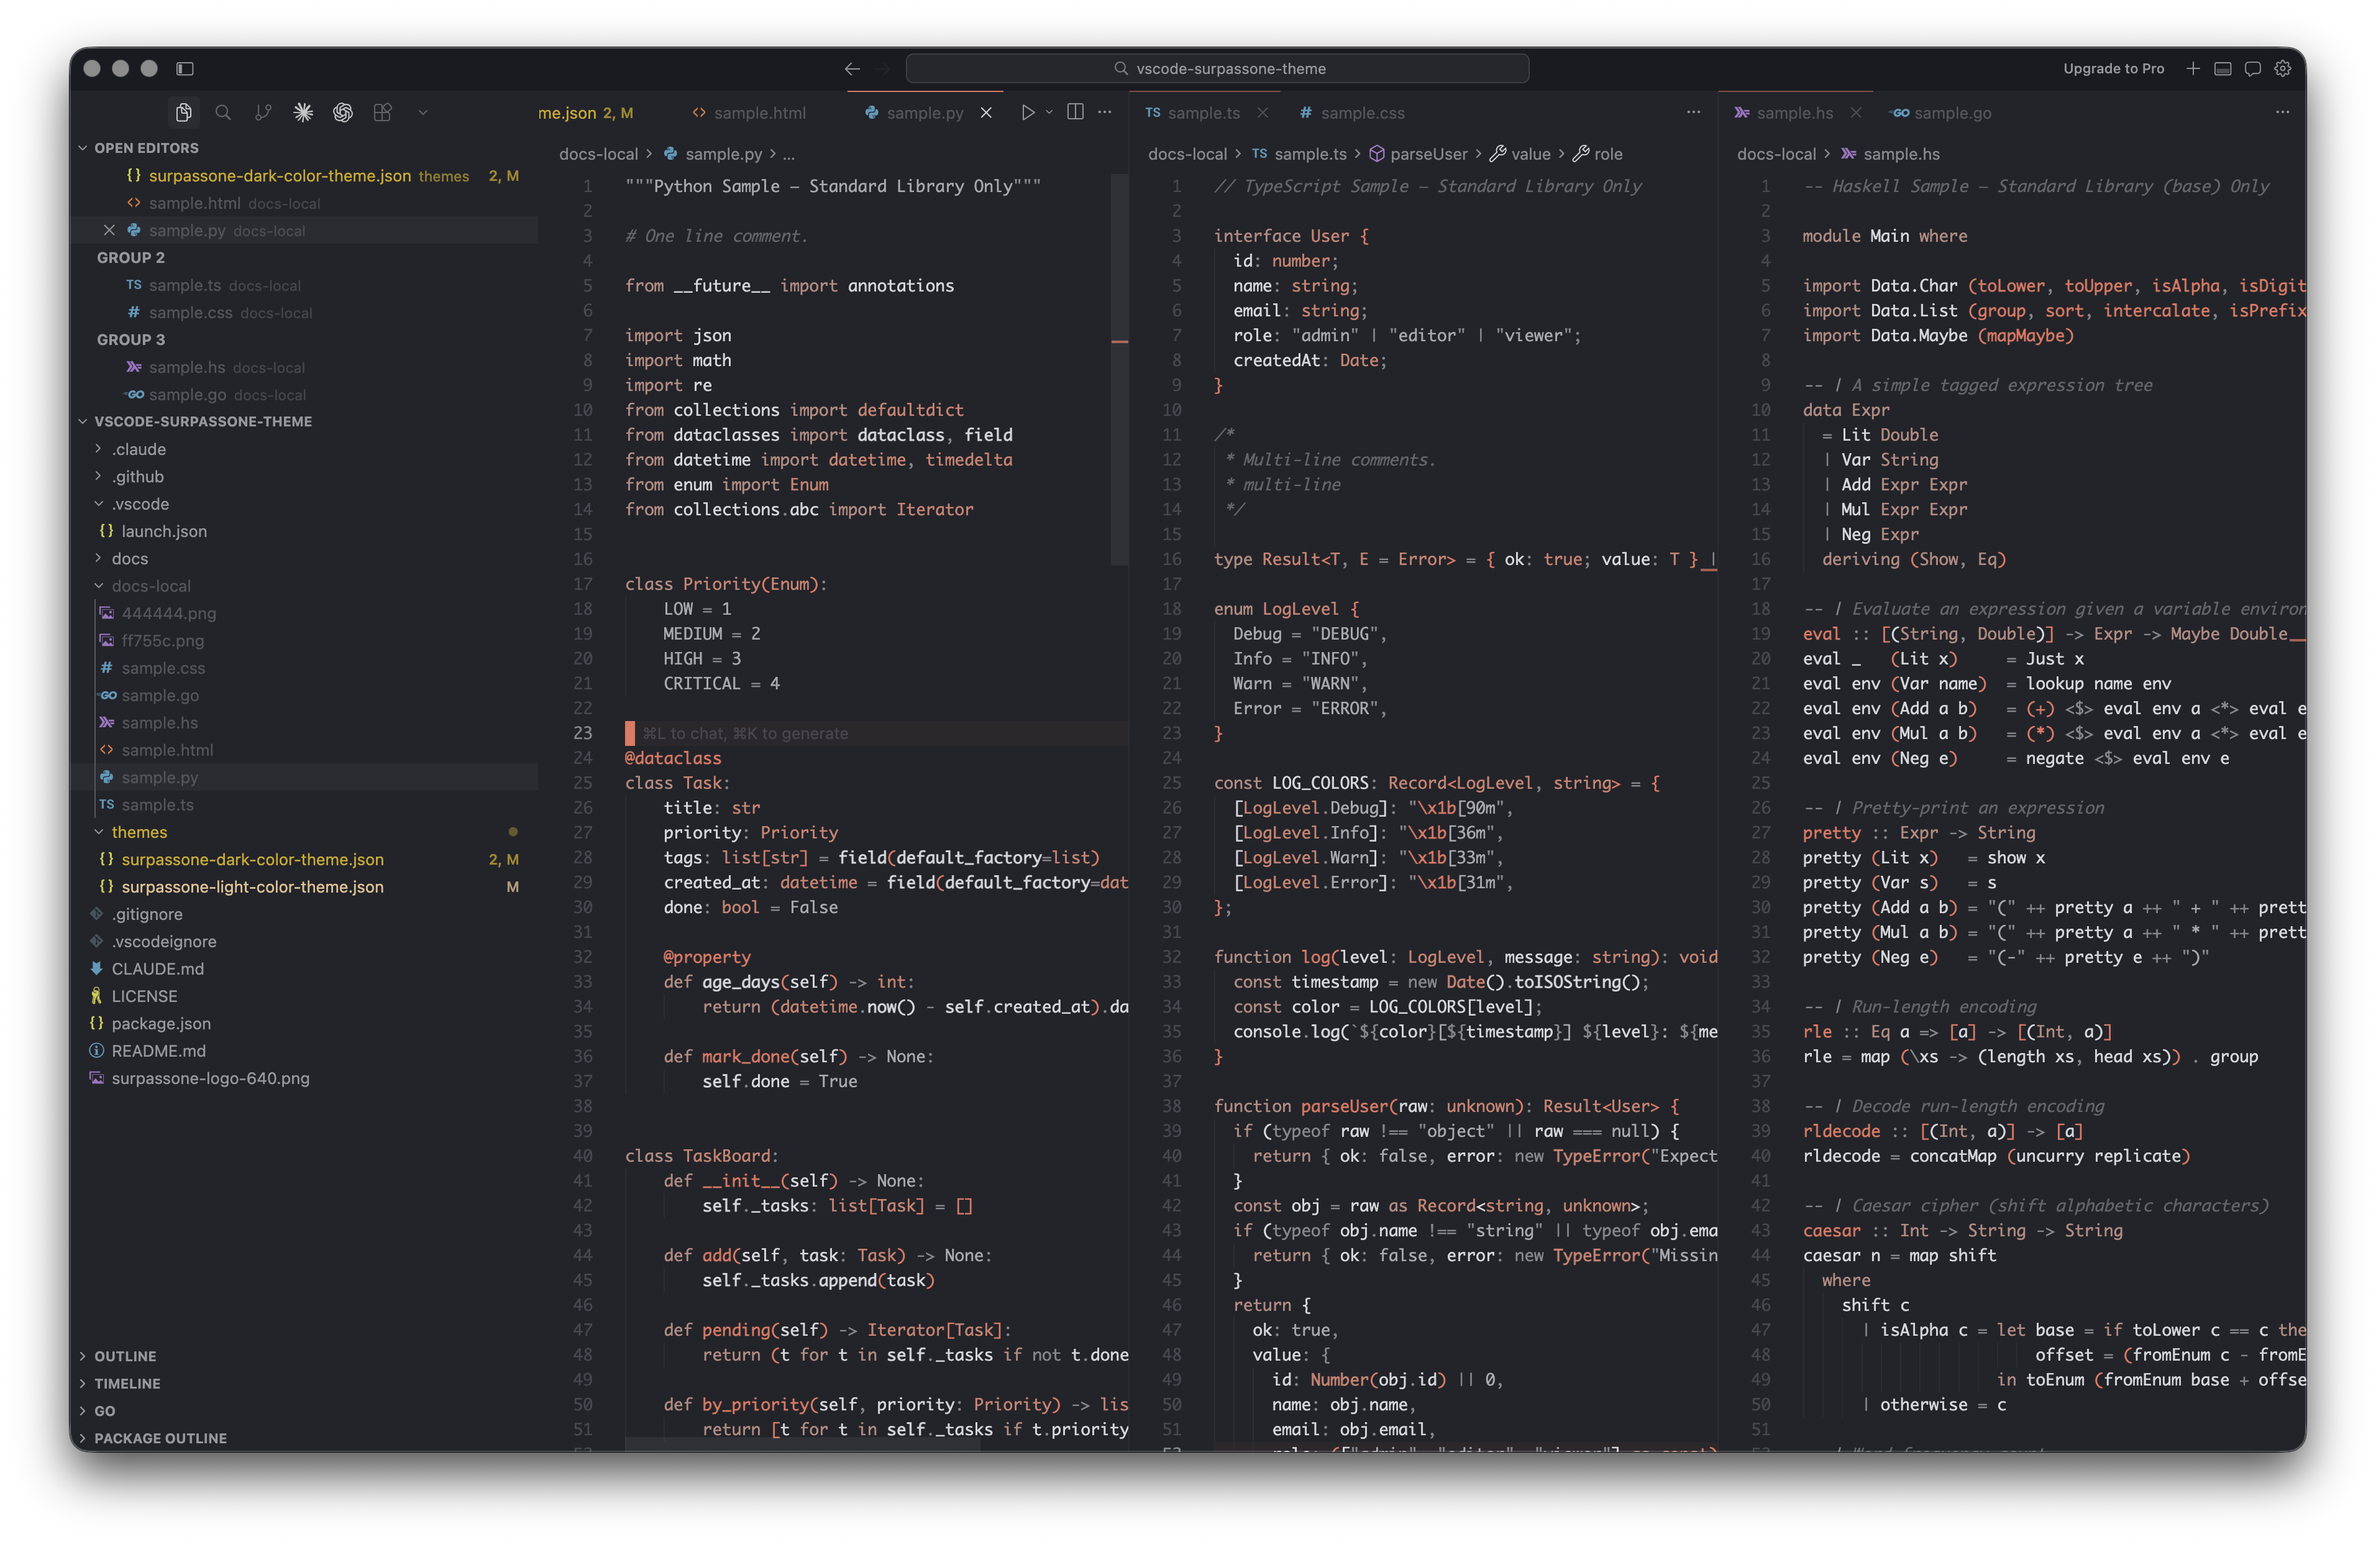
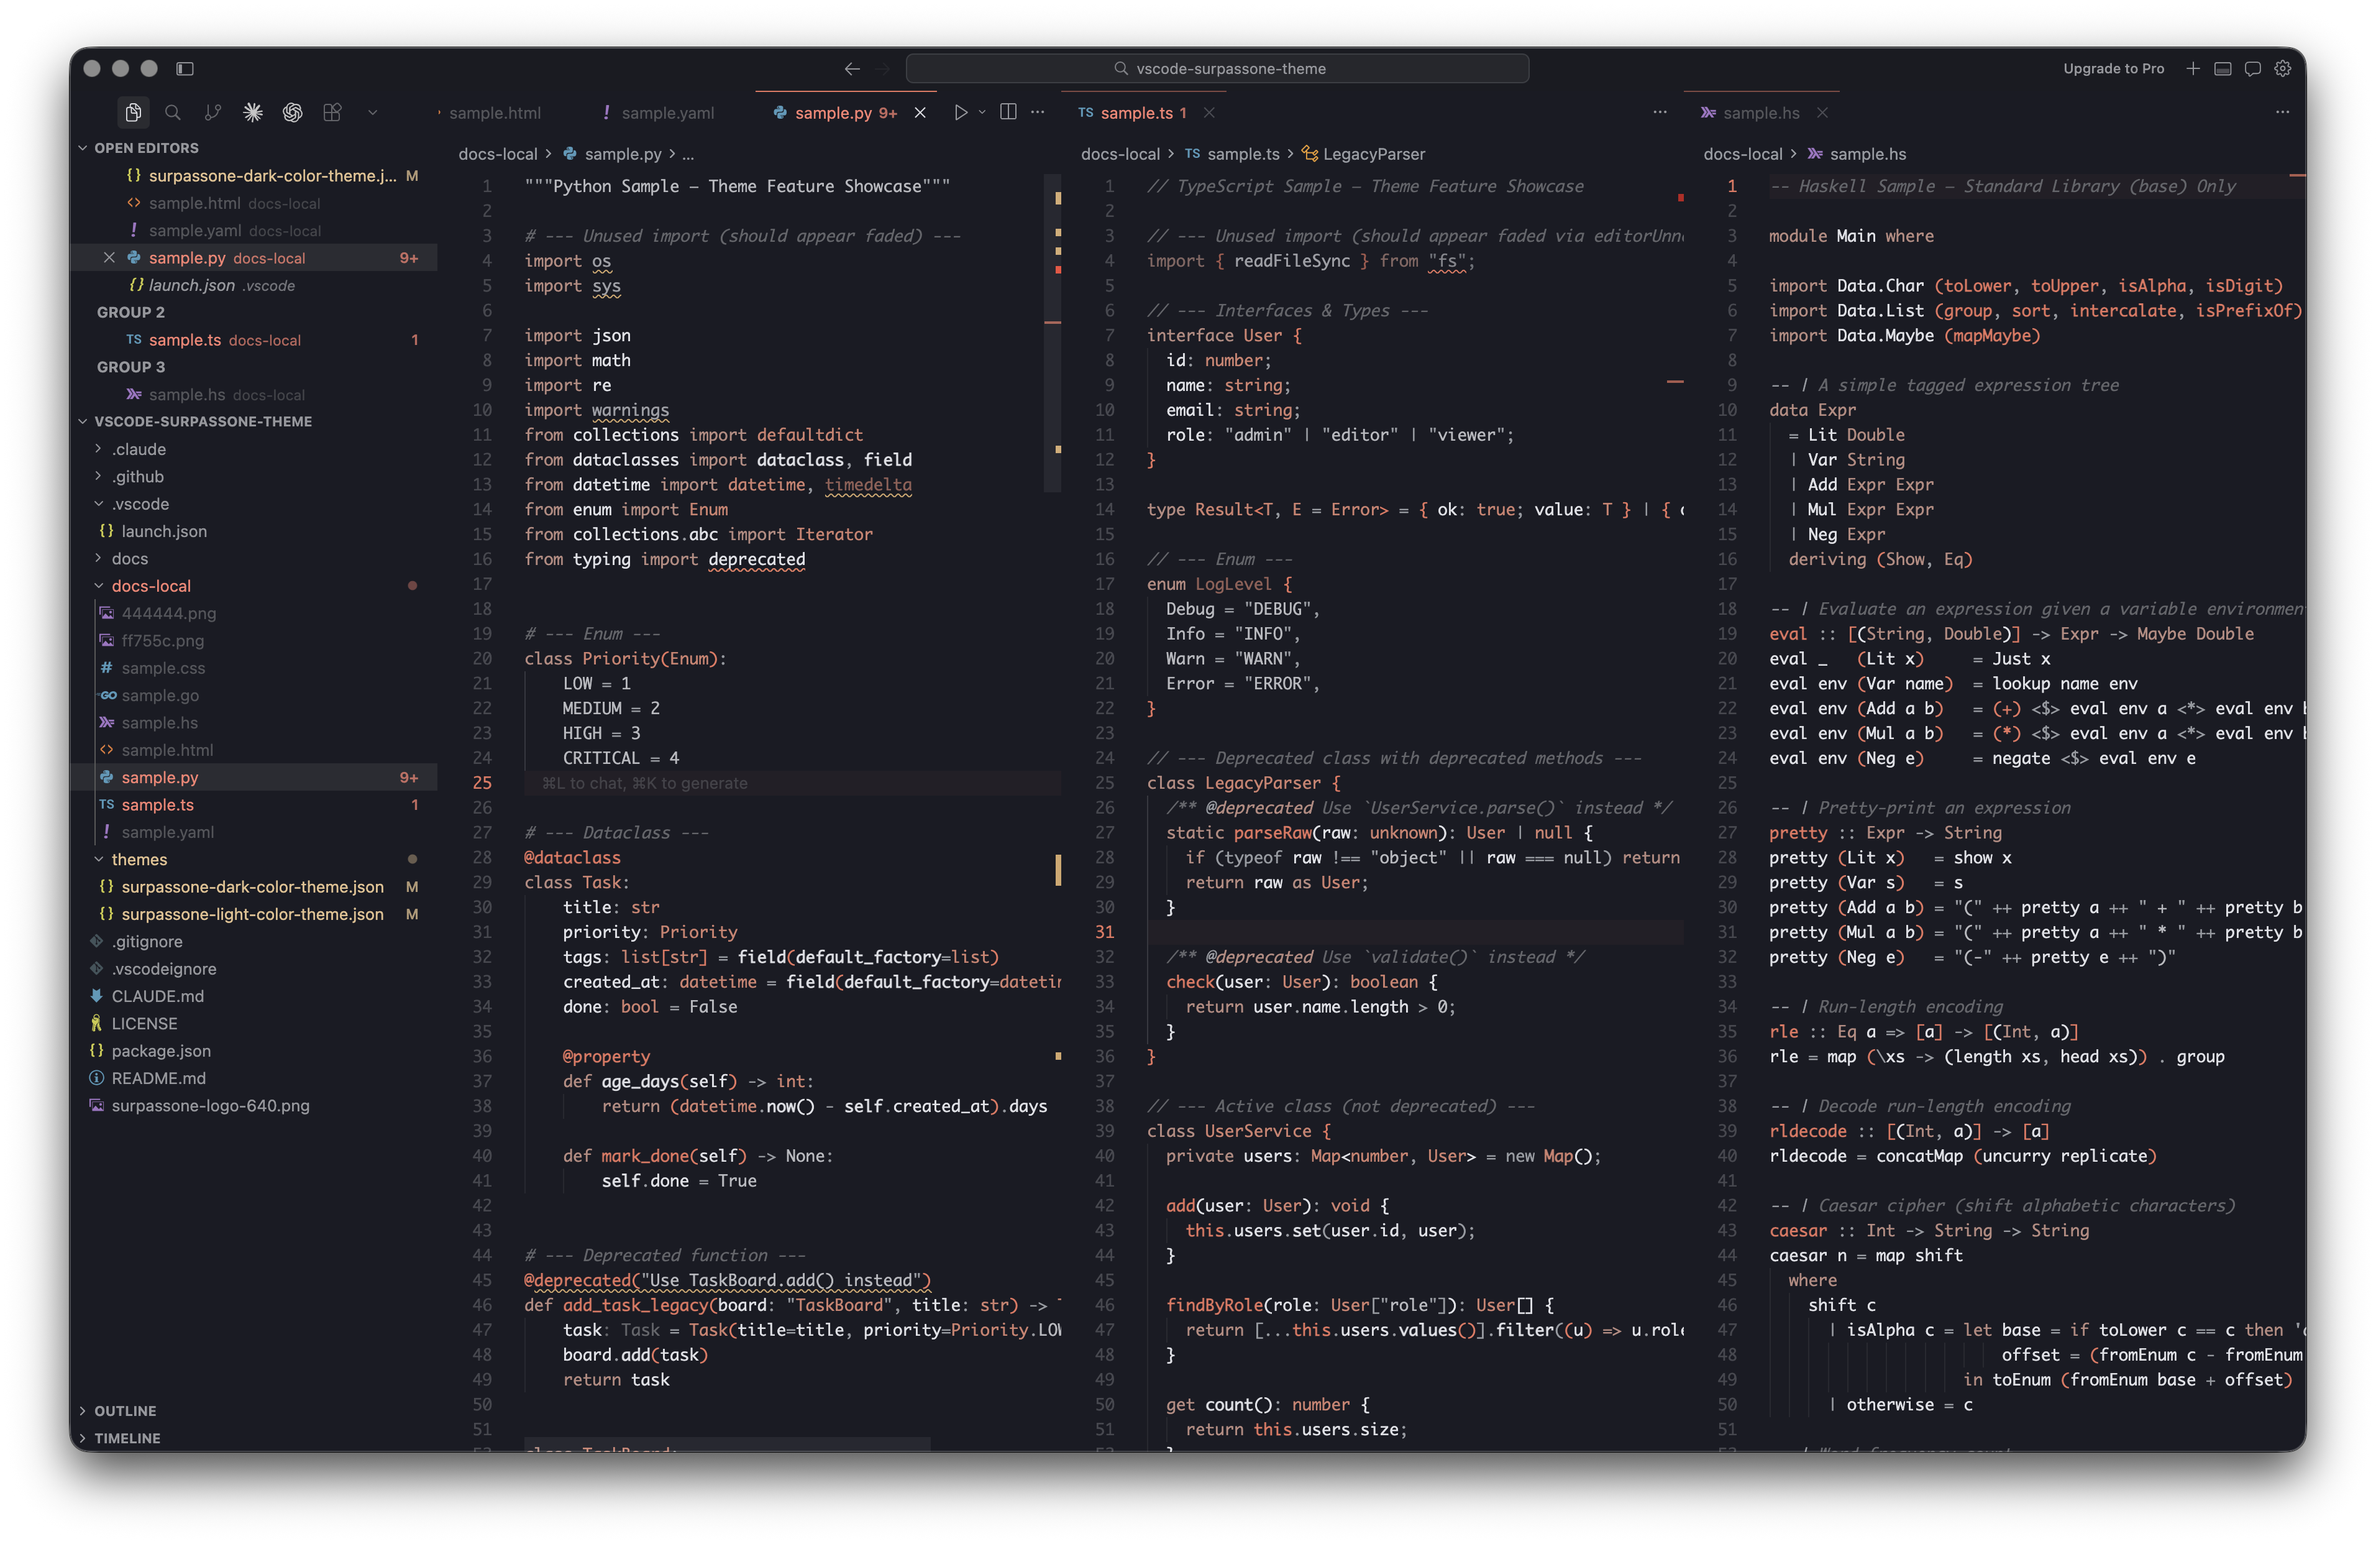
v0.3.3: increase contrast, flatten borders, coral line numbers, data file keys

diff --git a/README.md b/README.md
@@ -3,7 +3,7 @@
 [![Version](https://img.shields.io/visual-studio-marketplace/v/surpassone.surpassone-theme)](https://marketplace.visualstudio.com/items?itemName=surpassone.surpassone-theme)
 [![Downloads](https://img.shields.io/visual-studio-marketplace/d/surpassone.surpassone-theme)](https://marketplace.visualstudio.com/items?itemName=surpassone.surpassone-theme)
 
-A flat, monochrome color theme with a single coral accent. Only keywords get color — everything else is expressed through tonal gray hierarchy. Dark and Light variants included.
+A flat, monochrome color theme built on coral tonal hierarchy and grayscale. No rainbow — just shades of coral and gray. Dark and Light variants included.
 
 ![Dark](https://raw.githubusercontent.com/aitit-inc/vscode-surpassone-theme/main/docs/dark-preview.png)
 
